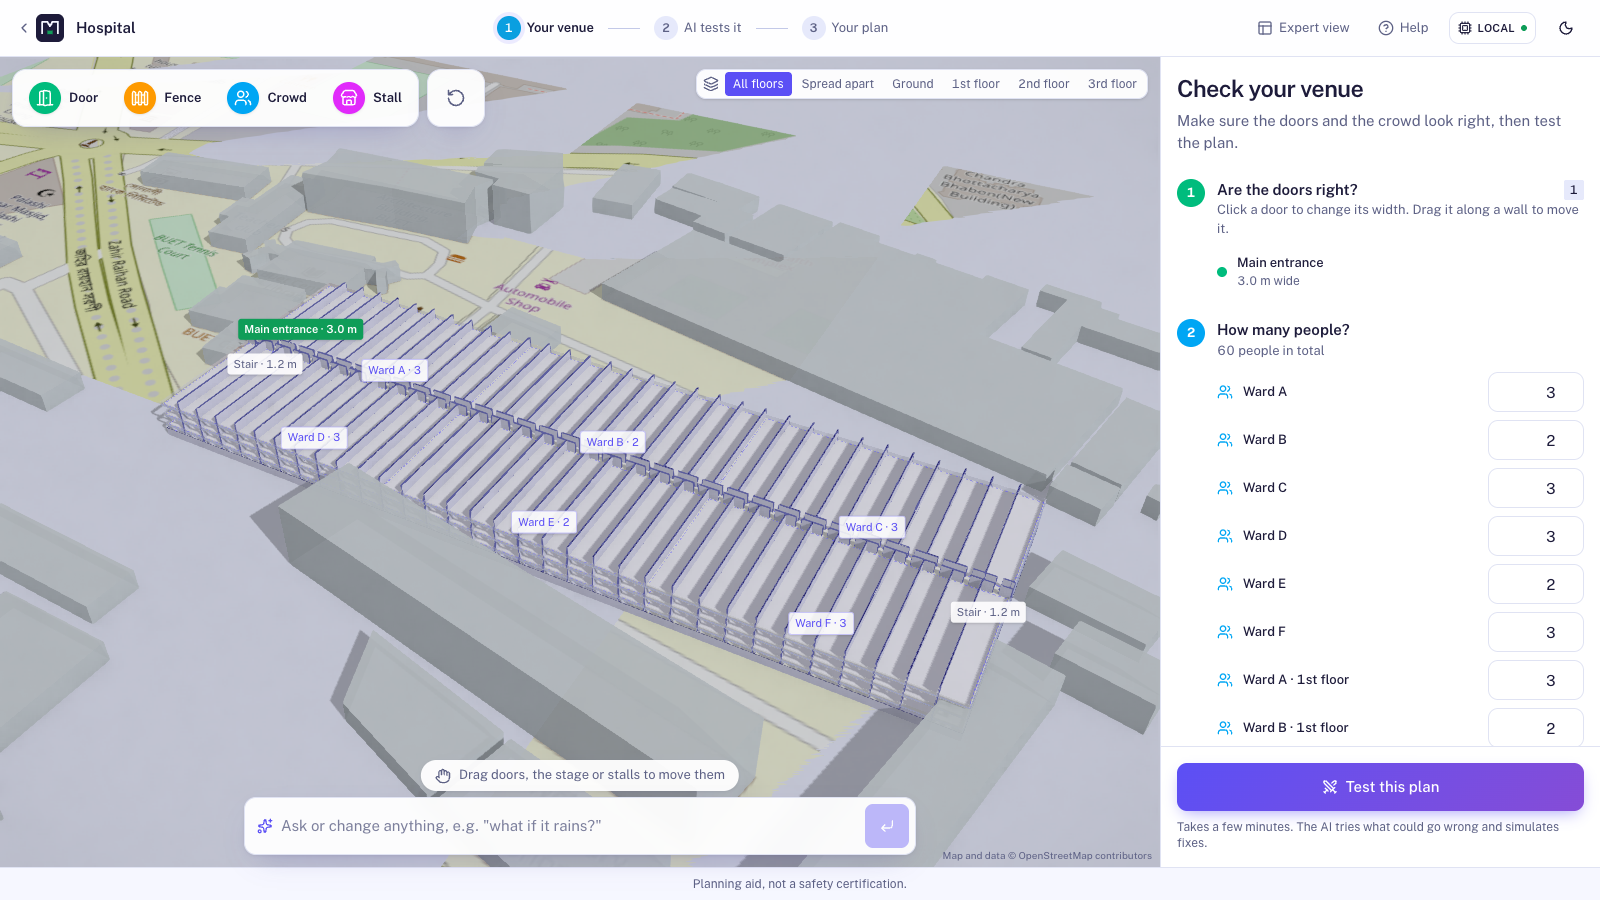
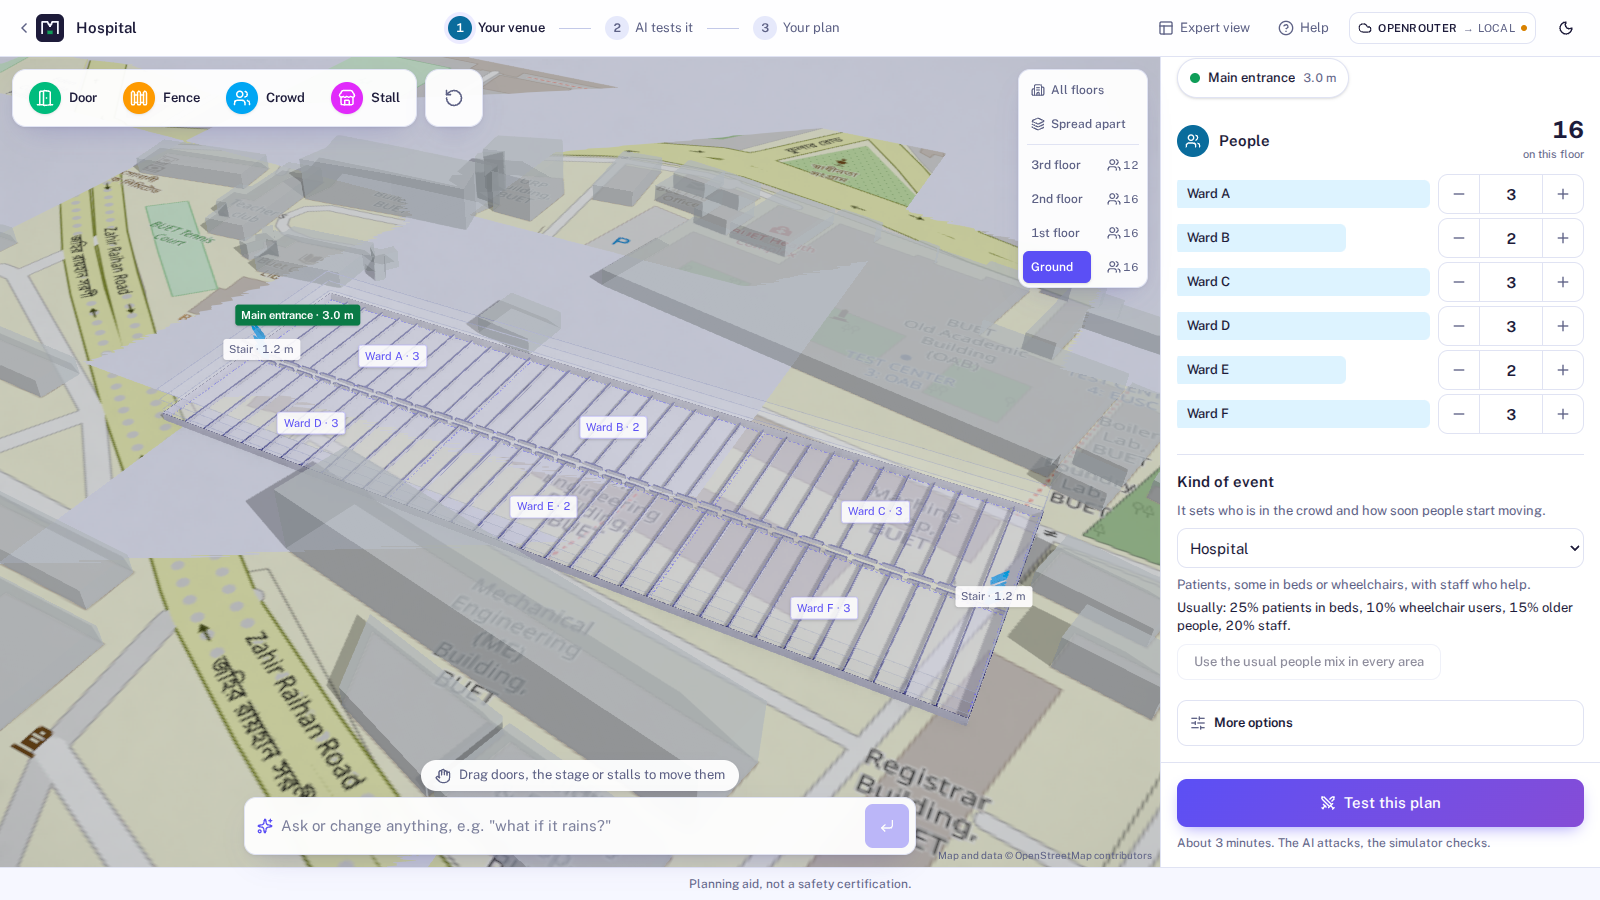
test(e2e): multi-storey journey opens More options and the Floors tab; people legend clear of the floor switcher

diff --git a/nebius/web/e2e/multi-storey.spec.ts b/nebius/web/e2e/multi-storey.spec.ts
@@ -44,7 +44,11 @@ test("multi-storey journey: 4-floor hospital from the map to a one-floor replay"
   try {
     const switcher = page.getByRole("radiogroup", { name: "Floors to show" });
     await expect(switcher.getByRole("radio")).toHaveCount(6); // all, spread apart, 4 floors
+    // adding and removing storeys lives under "More options"; floor tabs pick the floor in the list
+    await expect(page.getByRole("group", { name: "Floor shown in the list" }).getByRole("button")).toHaveCount(5);
+    await page.getByText("More options").click();
     await expect(page.getByRole("heading", { name: "Floors and rooms" })).toBeAttached();
+    await page.getByText("More options").click();
     await expect(page.locator("canvas").first()).toBeVisible();
     await page.waitForTimeout(4000); // let the 3D view draw before the screenshot
     await shot(page, "check-hospital-4f");

diff --git a/nebius/web/src/journey/plan/ReplayStage.tsx b/nebius/web/src/journey/plan/ReplayStage.tsx
@@ -61,7 +61,7 @@ export function ReplayStage({ label, main, compare, markers, basis, chip, top, c
       {chip && <div className="pointer-events-none absolute left-3 top-3 z-40 max-w-[60%]">{chip}</div>}
       {top && <div className="absolute inset-x-0 top-3 z-40 flex justify-center px-3 max-sm:top-14">{top}</div>}
       {main.replay && <ReplayCaption markers={markers} className="absolute inset-x-0 top-16 z-40 flex justify-center px-3 max-sm:top-28" />}
-      <PeopleLegend replay={main.replay} className="absolute right-3 top-1/2 z-40 w-52 -translate-y-1/2 max-lg:hidden" />
+      <PeopleLegend replay={main.replay} className="absolute left-3 top-1/2 z-40 w-52 -translate-y-1/2 max-lg:hidden" />
       {legend && main.replay?.density && (
         <div className="pointer-events-none absolute bottom-14 right-3 z-40 max-md:hidden">
           {legend.title ? (
